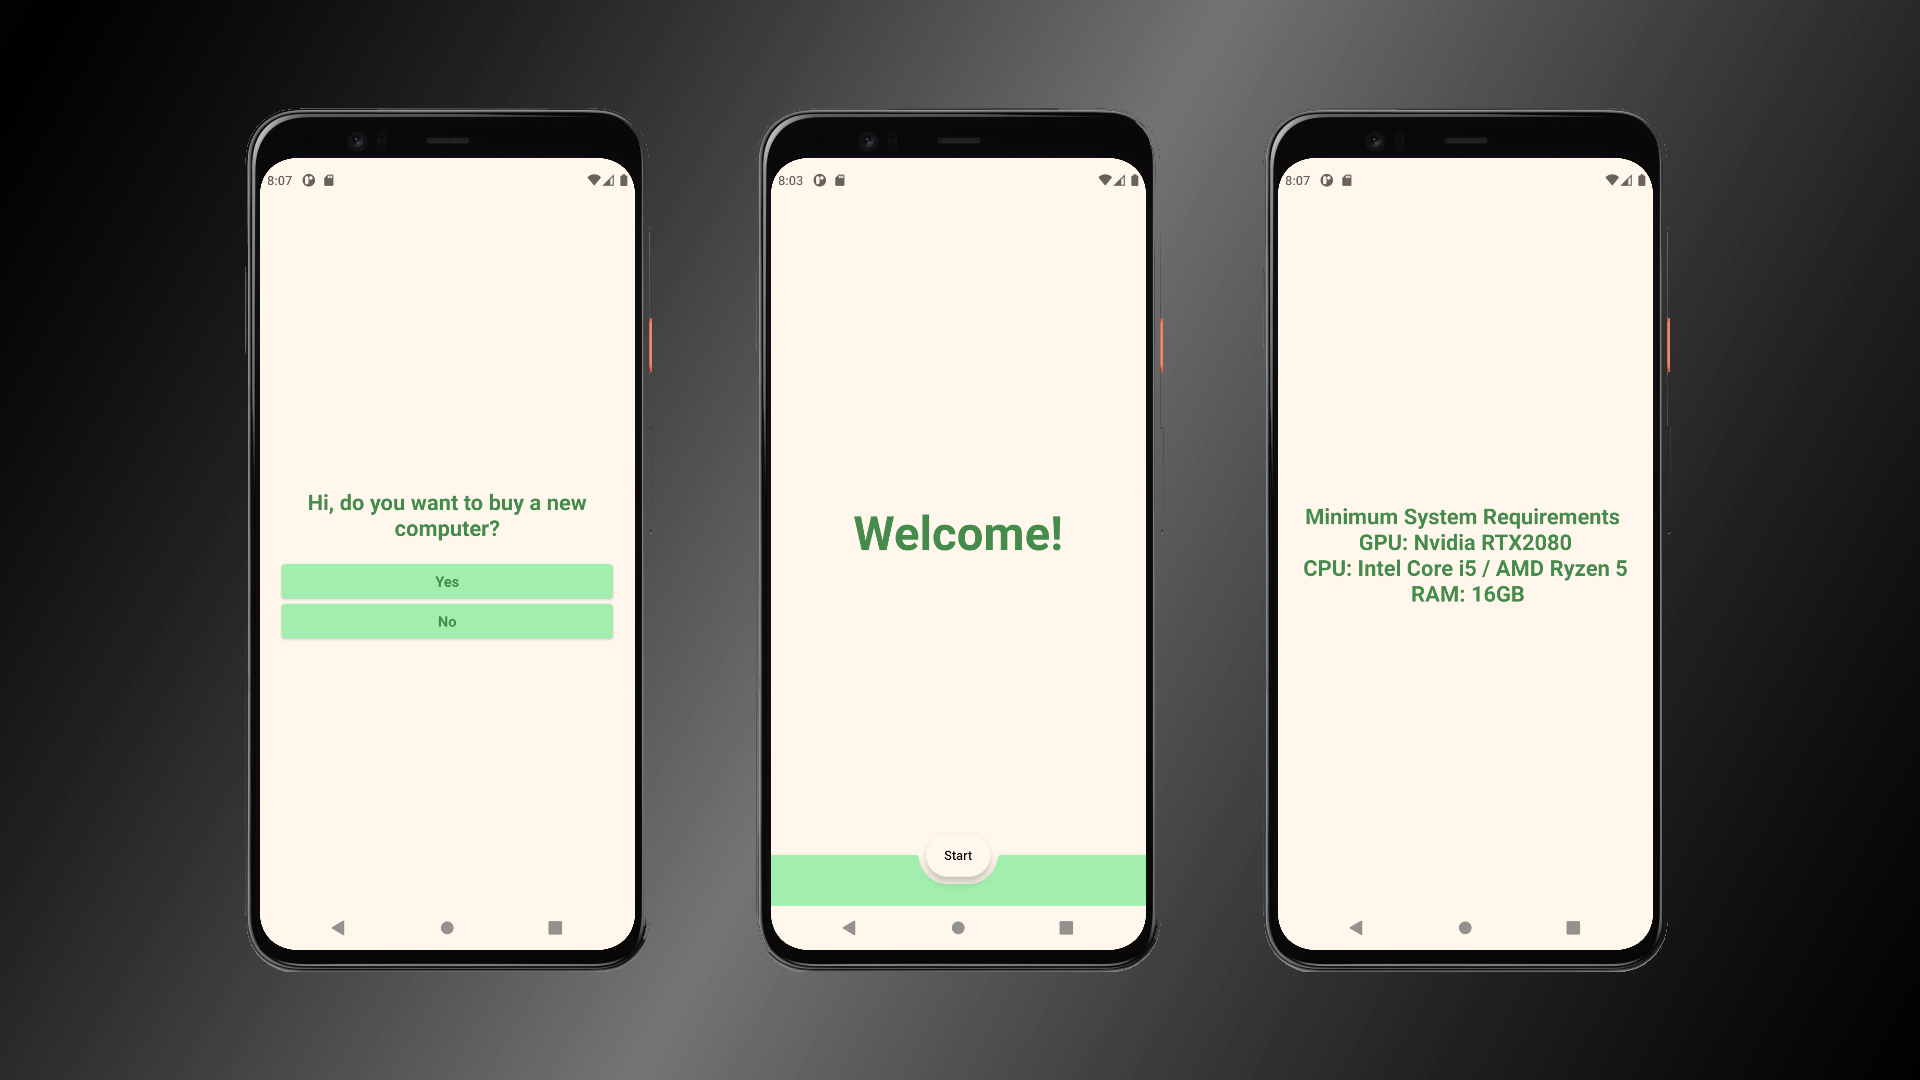
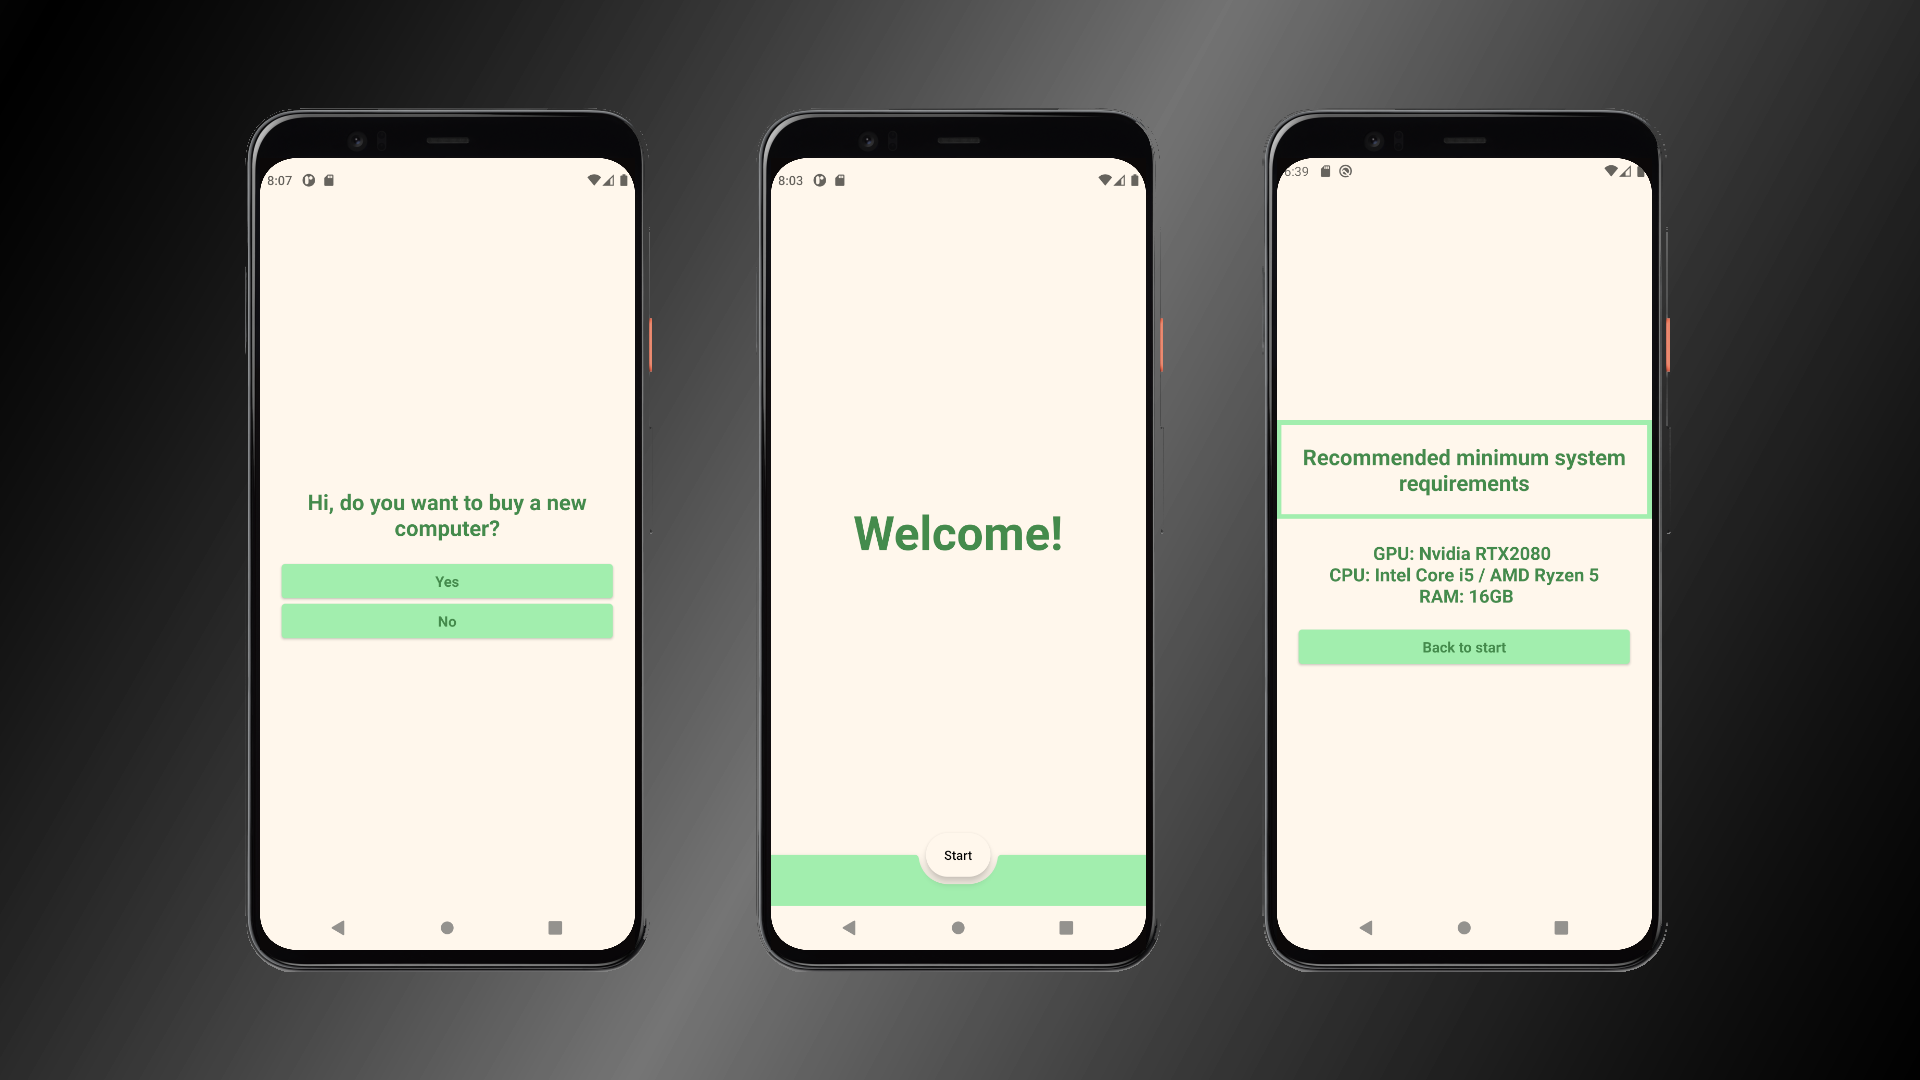
Turkish language added

diff --git a/app/src/main/java/md/meral/sialab1/presentation/question/QuestionScreen.kt b/app/src/main/java/md/meral/sialab1/presentation/question/QuestionScreen.kt
@@ -1,24 +1,32 @@
 package md.meral.sialab1.presentation.question
 
+import android.graphics.drawable.shapes.Shape
+import androidx.compose.foundation.BorderStroke
+import androidx.compose.foundation.border
 import androidx.compose.foundation.layout.*
 import androidx.compose.material.Button
 import androidx.compose.material.ButtonDefaults
 import androidx.compose.material.Text
-import androidx.compose.material.TextButton
 import androidx.compose.runtime.Composable
 import androidx.compose.ui.Alignment
 import androidx.compose.ui.Modifier
-import androidx.compose.ui.graphics.Color
+import androidx.compose.ui.graphics.Brush
+import androidx.compose.ui.graphics.RectangleShape
+import androidx.compose.ui.graphics.SolidColor
+import androidx.compose.ui.res.stringResource
+import androidx.compose.ui.text.font.FontStyle
 import androidx.compose.ui.text.font.FontWeight
 import androidx.compose.ui.text.style.TextAlign
 import androidx.compose.ui.unit.dp
 import androidx.compose.ui.unit.sp
 import androidx.navigation.NavController
-import md.meral.sialab1.MainActivity
-import md.meral.sialab1.presentation.util.BinaryNode
-import md.meral.sialab1.presentation.util.Constants
+import md.meral.sialab1.presentation.ui.theme.AwsColor1
+import md.meral.sialab1.presentation.ui.theme.AwsTextColor1
+import md.meral.sialab1.presentation.ui.theme.AwsTextColor2
 import md.meral.sialab1.presentation.util.Node
 import md.meral.sialab1.presentation.util.Screen
+import md.meral.sialab1.R
+import md.meral.sialab1.presentation.ui.theme.Shapes
 
 @Composable
 fun QuestionScreen(navController: NavController) {
@@ -30,36 +38,75 @@ fun QuestionScreen(navController: NavController) {
         verticalArrangement = Arrangement.Center,
         horizontalAlignment = Alignment.CenterHorizontally,
     ) {
+        if (node?.children?.isEmpty() == true) {
+            Box(
+                modifier = Modifier.border(BorderStroke(5.dp, SolidColor(AwsColor1))).padding(24.dp)
+            ) {
+                Text(
+                    text = stringResource(id = R.string.recommended_minimum_system_requirement),
+                    fontSize = 24.sp,
+                    fontWeight = FontWeight.Bold,
+                    color = AwsTextColor1,
+                    textAlign = TextAlign.Center,
+                )
+            }
+        }
+
         Text(
             text = node!!.value,
-            fontSize = 24.sp,
+            fontSize = 20.sp,
             fontWeight = FontWeight.Bold,
             modifier = Modifier.padding(24.dp),
-            color = Color(0xFF757575),
+            color = AwsTextColor2,
             textAlign = TextAlign.Center,
         )
 
-        for (value in node.children) {
+        if (node.children.isEmpty()) {
+
             Button(
                 onClick = {
-                    if (value.children.size == 1) {
-                        Node.node = value.children.first()
-                    } else if(value.children.size >= 2) {
-                        Node.node = value
-                    }
-                    navController.navigate(Screen.QuestionScreen.route)
+                    navController.navigate(Screen.HomeScreen.route)
                 },
 
-                modifier = Modifier.padding(bottom = 6.dp, start = 24.dp, end = 24.dp).fillMaxWidth(),
+                modifier = Modifier
+                    .padding(bottom = 6.dp, start = 24.dp, end = 24.dp)
+                    .fillMaxWidth(),
 
-                colors = ButtonDefaults.buttonColors(backgroundColor = Color(0xFF4CAF50))
+                colors = ButtonDefaults.buttonColors(backgroundColor = AwsColor1)
             ) {
                 Text(
-                    text = value.value,
-                    color = Color(0xFFFFFFFF),
+                    text = stringResource(id = R.string.back_to_start),
+                    color = AwsTextColor1,
                     fontWeight = FontWeight.Bold,
                     fontSize = 16.sp,
                 )
+            }
+        } else {
+
+            for (value in node.children) {
+                Button(
+                    onClick = {
+                        if (value.children.size == 1) {
+                            Node.node = value.children.first()
+                        } else if(value.children.size >= 2) {
+                            Node.node = value
+                        }
+                        navController.navigate(Screen.QuestionScreen.route)
+                    },
+
+                    modifier = Modifier
+                        .padding(bottom = 6.dp, start = 24.dp, end = 24.dp)
+                        .fillMaxWidth(),
+
+                    colors = ButtonDefaults.buttonColors(backgroundColor = AwsColor1)
+                ) {
+                    Text(
+                        text = value.value,
+                        color = AwsTextColor1,
+                        fontWeight = FontWeight.Bold,
+                        fontSize = 16.sp,
+                    )
+                }
             }
         }
     }

diff --git a/app/src/main/java/md/meral/sialab1/presentation/home/HomeScreen.kt b/app/src/main/java/md/meral/sialab1/presentation/home/HomeScreen.kt
@@ -1,54 +1,63 @@
 package md.meral.sialab1.presentation.home
 
-import androidx.compose.foundation.layout.*
-import androidx.compose.material.Button
-import androidx.compose.material.ButtonColors
-import androidx.compose.material.ButtonDefaults
-import androidx.compose.material.Text
+import androidx.compose.foundation.layout.Arrangement
+import androidx.compose.foundation.layout.Column
+import androidx.compose.foundation.layout.fillMaxSize
+import androidx.compose.foundation.layout.padding
+import androidx.compose.foundation.shape.CircleShape
+import androidx.compose.material.*
 import androidx.compose.runtime.Composable
 import androidx.compose.ui.Alignment
 import androidx.compose.ui.Modifier
-import androidx.compose.ui.graphics.Color
+import androidx.compose.ui.platform.LocalContext
 import androidx.compose.ui.res.stringResource
 import androidx.compose.ui.text.font.FontWeight
-import androidx.compose.ui.text.style.TextAlign
 import androidx.compose.ui.unit.dp
 import androidx.compose.ui.unit.sp
 import androidx.navigation.NavController
 import md.meral.sialab1.R
+import md.meral.sialab1.presentation.question.Questions
+import md.meral.sialab1.presentation.ui.theme.AwsTextColor1
+import md.meral.sialab1.presentation.util.Node
 import md.meral.sialab1.presentation.util.Screen
 
 @Composable
 fun HomeScreen(navController: NavController) {
-    Column(
-        modifier = Modifier.fillMaxSize(),
-        verticalArrangement = Arrangement.Center,
-        horizontalAlignment = Alignment.CenterHorizontally
-    ) {
-        Text(
-            text = stringResource(id = R.string.welcome),
-            fontWeight = FontWeight.Bold,
-            fontSize = 52.sp,
-            modifier = Modifier.padding(bottom = 50.dp),
-            color = Color(0xFF757575)
-        )
+    Node.node = Questions().createBinaryTree()
 
-        Button(
-            onClick = {
-                navController.navigate(Screen.QuestionScreen.route)
-            },
+    val scaffoldState = rememberScaffoldState()
 
-            colors = ButtonDefaults.buttonColors(backgroundColor = Color(0xFF4CAF50)),
-            modifier = Modifier.padding(start = 24.dp, end = 24.dp)
-        ) {
-            Text(
-                text = stringResource(id = R.string.start),
-                fontWeight = FontWeight.Bold,
-                color = Color(0xFFFFFFFF),
-                modifier = Modifier.fillMaxWidth(),
-                fontSize = 24.sp,
-                textAlign = TextAlign.Center
+    Scaffold(
+        scaffoldState = scaffoldState,
+        bottomBar = {
+            BottomAppBar(cutoutShape = CircleShape) {
+
+            }
+        },
+
+        floatingActionButton = {
+            ExtendedFloatingActionButton(
+                text = { Text(text = stringResource(id = R.string.start)) },
+                onClick = { navController.navigate(Screen.QuestionScreen.route) }
             )
+        },
+
+        floatingActionButtonPosition = FabPosition.Center,
+        isFloatingActionButtonDocked = true,
+        content = {
+            Column(
+                modifier = Modifier.fillMaxSize(),
+                verticalArrangement = Arrangement.Center,
+                horizontalAlignment = Alignment.CenterHorizontally
+            ) {
+                Text(
+                    text = stringResource(id = R.string.welcome),
+                    fontWeight = FontWeight.Bold,
+                    fontSize = 52.sp,
+                    modifier = Modifier.padding(bottom = 50.dp),
+                    color = AwsTextColor1
+                )
+            }
         }
-    }
+    )
 }

diff --git a/app/src/main/java/md/meral/sialab1/MainActivity.kt b/app/src/main/java/md/meral/sialab1/MainActivity.kt
@@ -3,31 +3,34 @@ package md.meral.sialab1
 import android.os.Bundle
 import androidx.activity.ComponentActivity
 import androidx.activity.compose.setContent
-import androidx.compose.material.MaterialTheme
-import androidx.compose.material.Surface
-import androidx.compose.material.Text
-import androidx.compose.runtime.Composable
-import androidx.compose.ui.tooling.preview.Preview
+import androidx.compose.foundation.background
+import androidx.compose.foundation.layout.Box
+import androidx.compose.foundation.layout.fillMaxSize
+import androidx.compose.material.*
+import androidx.compose.ui.Modifier
 import androidx.navigation.compose.rememberNavController
-import md.meral.sialab1.presentation.question.QuestionScreen
 import md.meral.sialab1.presentation.question.Questions
+import md.meral.sialab1.presentation.ui.theme.AwsColor3
 import md.meral.sialab1.presentation.ui.theme.SIALab1Theme
-import md.meral.sialab1.presentation.util.Constants
 import md.meral.sialab1.presentation.util.Navigation
 import md.meral.sialab1.presentation.util.Node
-import md.meral.sialab1.presentation.util.Screen
+import java.util.*
 
 class MainActivity : ComponentActivity() {
+
     override fun onCreate(savedInstanceState: Bundle?) {
         super.onCreate(savedInstanceState)
-        setContent {
 
+        setContent {
             val navController = rememberNavController()
             Node.node = Questions().createBinaryTree()
 
             SIALab1Theme {
-                // A surface container using the 'background' color from the theme
-                Surface(color = MaterialTheme.colors.background) {
+                Box(
+                    modifier = Modifier
+                        .background(color = AwsColor3)
+                        .fillMaxSize()
+                ) {
                     Navigation(navController = navController)
                 }
             }
@@ -40,7 +43,7 @@ class MainActivity : ComponentActivity() {
         if (Node.node?.parent != null) {
             if (Node.node?.parent?.children?.size!! == 1) {
                 Node.node = Node.node?.parent?.parent
-            } else if(Node.node?.parent?.children?.size!! >= 2) {
+            } else if (Node.node?.parent?.children?.size!! >= 2) {
                 Node.node = Node.node?.parent
             }
         }

diff --git a/app/src/main/java/md/meral/sialab1/presentation/ui/theme/Theme.kt b/app/src/main/java/md/meral/sialab1/presentation/ui/theme/Theme.kt
@@ -8,9 +8,10 @@ import androidx.compose.ui.graphics.Color
 import com.google.accompanist.systemuicontroller.rememberSystemUiController
 
 private val LightColorPalette = lightColors(
-    primary = Color(0xFF673AB7),
+    primary = AwsColor1,
     primaryVariant = Purple700,
-    secondary = Teal200,
+    secondary = AwsColor3,
+    background = AwsColor3
 )
 
 @Composable
@@ -22,7 +23,7 @@ fun SIALab1Theme(content: @Composable() () -> Unit) {
 
     SideEffect {
         systemUiController.setSystemBarsColor(
-            color = Color.White,
+            color = colors.background,
             darkIcons = useDarkIcons
         )
     }
@@ -31,6 +32,6 @@ fun SIALab1Theme(content: @Composable() () -> Unit) {
         colors = colors,
         typography = Typography,
         shapes = Shapes,
-        content = content
+        content = content,
     )
 }

diff --git a/app/src/main/java/md/meral/sialab1/presentation/ui/theme/Color.kt b/app/src/main/java/md/meral/sialab1/presentation/ui/theme/Color.kt
@@ -6,3 +6,11 @@ val Purple200 = Color(0xFFBB86FC)
 val Purple500 = Color(0xFF6200EE)
 val Purple700 = Color(0xFF3700B3)
 val Teal200 = Color(0xFF03DAC5)
+val AwsColor1 = Color(0xFFA2EEAE)
+val AwsColor2 = Color(0xFFD6ECCD)
+val AwsColor3 = Color(0xFFFFF7EC)
+val AwsColor4 = Color(0xFFA8EAD5)
+val AwsTextColor1 = Color(0xFF448B4C)
+val AwsTextColor2 = Color(0xFF448B4C)
+val AwsTextColor3 = Color(0xFF35909D)
+val AwsTextColor4 = Color(0xFF35909D)
